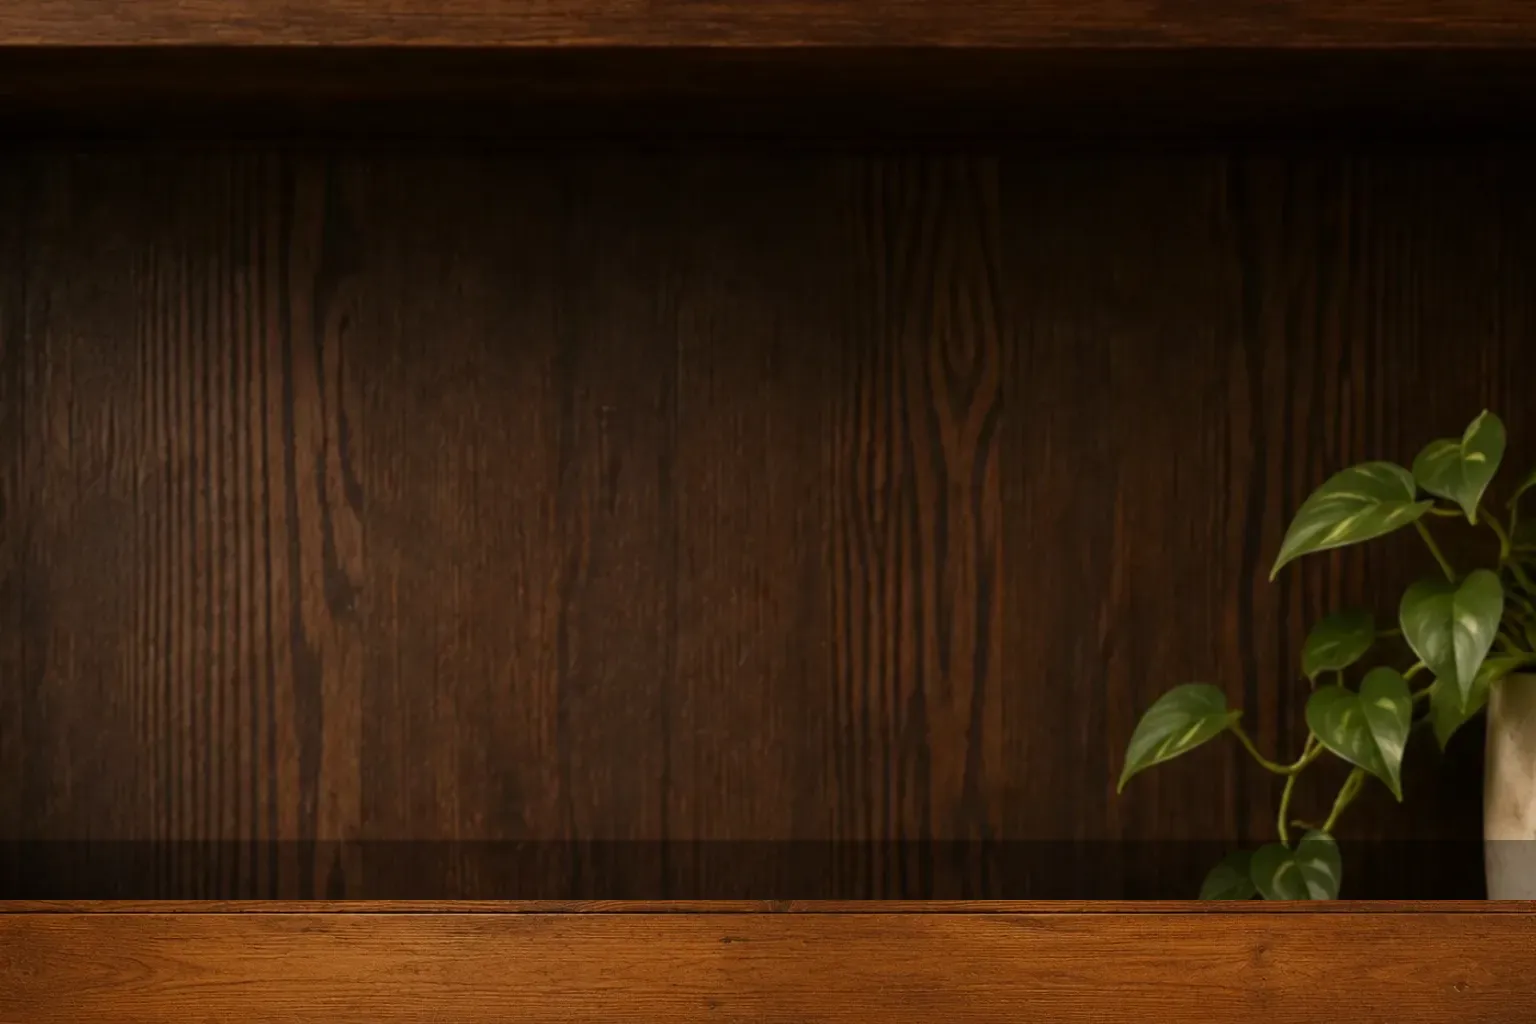
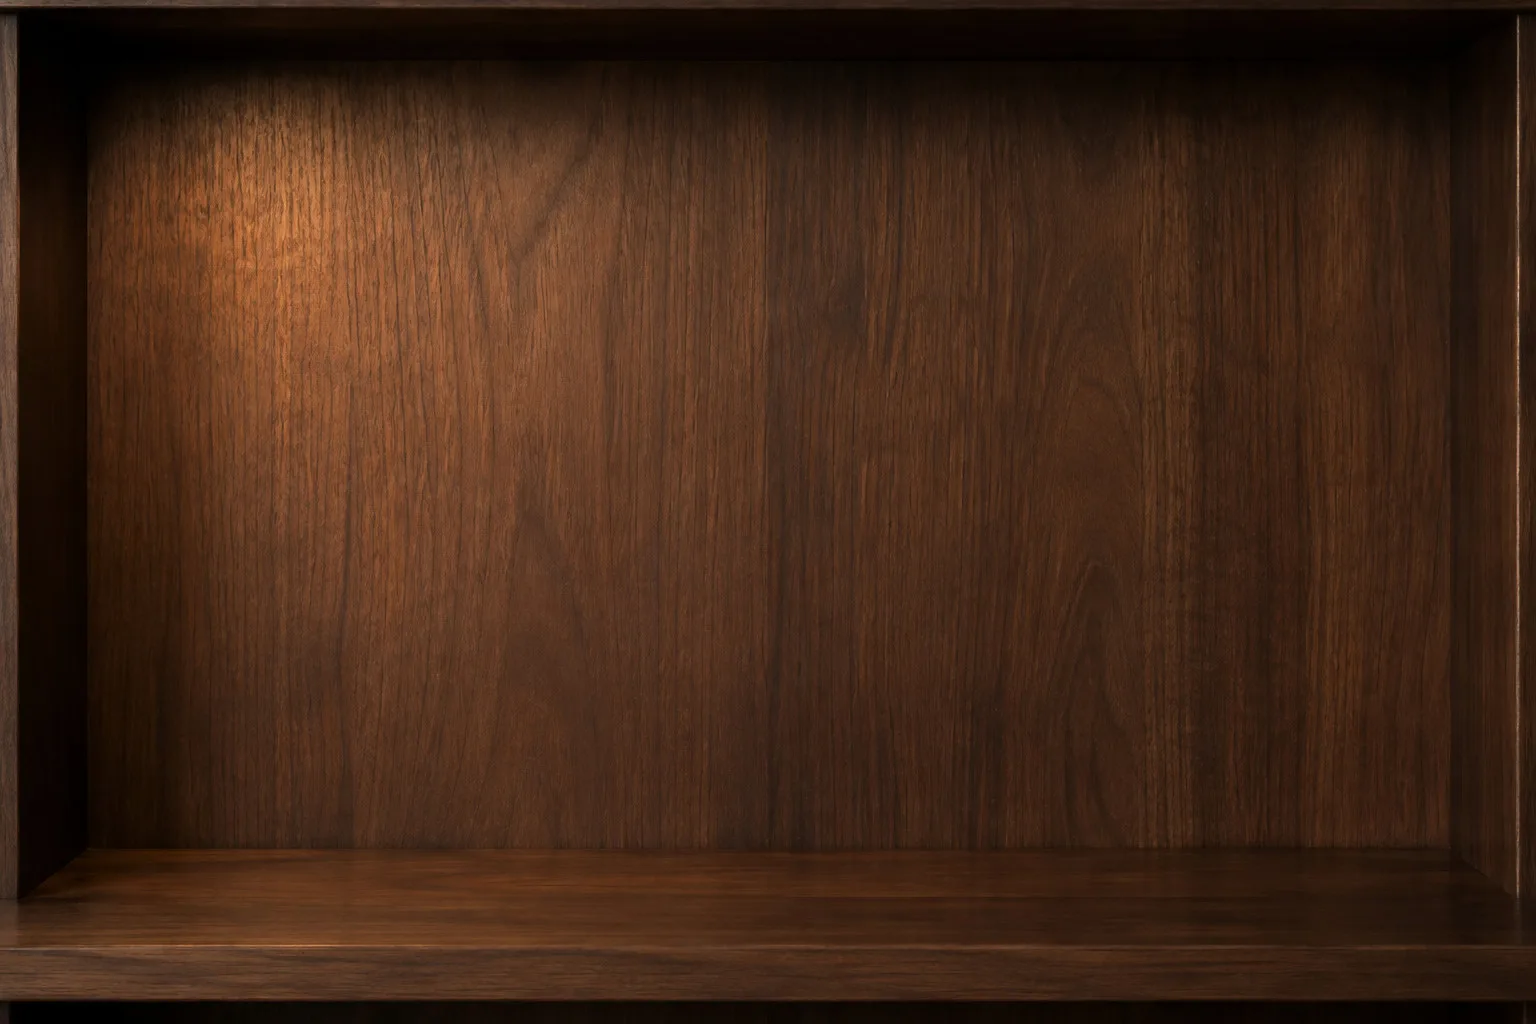
M14b: user's empty-shelf render + four flagship books, seated on the board
- walk/wall-empty.webp replaced with the art-directed empty walnut shelf
- One representative edition per work (Quantum EN, ISEKAI KO, AI Bible EN,
  Ninja Cat KO); crops avoid the render's side frames; books seated on the
  shelf board with capped height

Claude-Session: https://claude.ai/code/session_012FmSVGPgURdiNnWVcdARF5

diff --git a/lib/shelves.ts b/lib/shelves.ts
@@ -49,7 +49,7 @@ const ED_EN = d('영문판', 'English Edition', '英語版');
 const ED_JA = d('일본어판', 'Japanese Edition', '日本語版');
 
 // shared shelf backdrop — crops vary so bays read as different spots
-const EMPTY = {photo: 'wall-empty', zoom: '130%', seat: 30};
+const EMPTY = {photo: 'wall-empty', zoom: '130%', seat: 62};
 
 const QUANTUM_DESC = d(
   '경제가 양자 법칙을 따른다면? 선택과 가격을 다시 쓰는 새로운 의사결정 경제학.',
@@ -86,7 +86,7 @@ export const SHELVES: WalkShelf[] = [
       {
         sign: d('가격과 이익', 'Pricing & Profit', '価格と利益'),
         ...EMPTY,
-        pos: 'left 88%',
+        pos: '30% 90%',
         books: [
           {
             slug: 'quantum-econ',
@@ -98,24 +98,13 @@ export const SHELVES: WalkShelf[] = [
             desc: QUANTUM_DESC,
             status: 'out',
             face: true
-          },
-          {
-            slug: 'quantum-econ',
-            cover: '/covers/quantum-econ-ja.jpg',
-            spineBg: '#1a1440',
-            spineFg: '#f2df66',
-            ...same('量子経済学'),
-            ed: ED_JA,
-            desc: QUANTUM_DESC,
-            status: 'out',
-            face: true
           }
         ]
       },
       {
         sign: d('시장과 진입', 'Market & Entry', '市場と参入'),
         ...EMPTY,
-        pos: 'right 88%',
+        pos: '70% 90%',
         books: [
           {
             slug: 'isekai',
@@ -124,28 +113,6 @@ export const SHELVES: WalkShelf[] = [
             spineFg: '#241b0e',
             ...same('이세계 엔터프리너십 입문'),
             ed: ED_KO,
-            desc: ISEKAI_DESC,
-            status: 'out',
-            face: true
-          },
-          {
-            slug: 'isekai',
-            cover: '/covers/isekai.jpg',
-            spineBg: '#233f37',
-            spineFg: '#f2c94c',
-            ...same('ISEKAI Entrepreneurship'),
-            ed: ED_EN,
-            desc: ISEKAI_DESC,
-            status: 'out',
-            face: true
-          },
-          {
-            slug: 'isekai',
-            cover: '/covers/isekai-ja.jpg',
-            spineBg: '#44502a',
-            spineFg: '#f2e4b8',
-            ...same('異世界アントレプレナーシップ入門'),
-            ed: ED_JA,
             desc: ISEKAI_DESC,
             status: 'out',
             face: true
@@ -165,7 +132,7 @@ export const SHELVES: WalkShelf[] = [
       {
         sign: d('첫 프롬프트', 'First Prompts', 'はじめてのプロンプト'),
         ...EMPTY,
-        pos: 'center 88%',
+        pos: '50% 90%',
         books: [
           {
             slug: 'ai-bible',
@@ -178,21 +145,10 @@ export const SHELVES: WalkShelf[] = [
             status: 'out',
             face: true,
             rep: true
-          },
-          {
-            slug: 'ai-bible',
-            cover: '/covers/ai-bible-ja.jpg',
-            spineBg: '#16233d',
-            spineFg: '#e9c568',
-            ...same('AIバイブル 2026'),
-            ed: ED_JA,
-            desc: BIBLE_DESC,
-            status: 'out',
-            face: true
           }
         ]
       },
-      {sign: SOON, ...EMPTY, pos: 'left 88%', books: []}
+      {sign: SOON, ...EMPTY, pos: '30% 90%', books: []}
     ]
   },
   {
@@ -206,7 +162,7 @@ export const SHELVES: WalkShelf[] = [
       {
         sign: d('그림책과 놀이', 'Picture Books & Play', '絵本とあそび'),
         ...EMPTY,
-        pos: 'right 88%',
+        pos: '70% 90%',
         books: [
           {
             slug: 'ninja-cat',
@@ -218,21 +174,10 @@ export const SHELVES: WalkShelf[] = [
             desc: NINJA_DESC,
             status: 'out',
             face: true
-          },
-          {
-            slug: 'ninja-cat',
-            cover: '/covers/ninja-cat.jpg',
-            spineBg: '#e8b64a',
-            spineFg: '#3a2a1a',
-            ...same('おっちょこ忍キャット クロの巻'),
-            ed: ED_JA,
-            desc: NINJA_DESC,
-            status: 'out',
-            face: true
           }
         ]
       },
-      {sign: SOON, ...EMPTY, pos: 'center 88%', books: []}
+      {sign: SOON, ...EMPTY, pos: '50% 90%', books: []}
     ]
   }
 ];

diff --git a/components/store/BookWalk.tsx b/components/store/BookWalk.tsx
@@ -380,7 +380,7 @@ export default function BookWalk() {
             aria-label={aria}
             onClick={(e) => openDrawer(b, shelf, e.currentTarget)}
             onFocus={(e) => followFocus(e.currentTarget)}
-            style={{height: `${Math.min(slot.hPct, 79)}%`, marginLeft: slot.gap || undefined}}
+            style={{height: `${Math.min(slot.hPct, 66)}%`, marginLeft: slot.gap || undefined}}
           >
             <span
               className="bw-b3"
